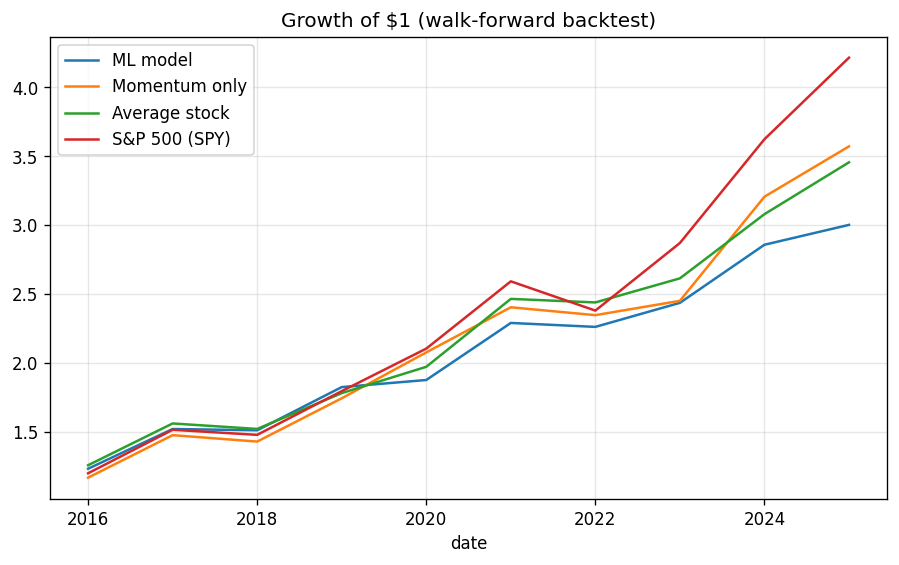
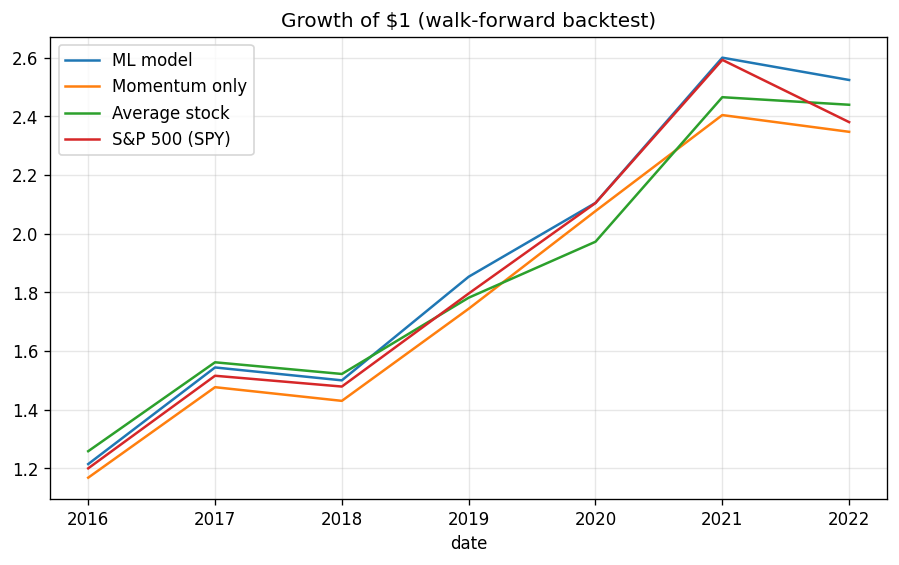
Use fundamentals only by default; price inputs can be switched back on

diff --git a/features.py b/features.py
@@ -69,4 +69,7 @@ def build_panel(monthly, members=None, fundamentals=None):
     panel.index.names = ["date", "ticker"]
     panel = panel.dropna(subset=list(FEATURE_BUILDERS))
     names = list(ranked)
+    if fundamentals is not None and not config.USE_PRICE_FEATURES:
+        # price features stay in the panel (the momentum benchmark uses them) but the model skips them
+        names = list(FUNDAMENTAL_BUILDERS)
     return panel, names

diff --git a/config.py b/config.py
@@ -21,6 +21,7 @@ MODEL_PARAMS = dict(
 )
 
 USE_FUNDAMENTALS = True        # add company financials from SEC filings to the model's inputs
+USE_PRICE_FEATURES = False     # also feed the model price patterns (momentum, volatility); they hurt in 2016-2022
 SEC_USER_AGENT = "stock-model bhrugu1203@icloud.com"   # the SEC asks scripts to include a contact email
 
 CACHE_DIR = "data"

diff --git a/README.md b/README.md
@@ -2,6 +2,8 @@
 
 A beginner-friendly, tweakable stock-picking project. It predicts which S&P 500 stocks are likely to beat the typical stock over the next 12 months, then honestly backtests that idea against the S&P 500.
 
+By default the model uses only company financials from SEC filings (value, profitability, growth, debt). Price patterns are switched off because they made 2016-2022 results worse; set `USE_PRICE_FEATURES = True` to compare.
+
 **Educational project, not financial advice.**
 
 ## Setup (one time, in Terminal)
@@ -52,7 +54,7 @@ https://bhrugu1203.github.io/stock-model/. Your Mac doesn't need to be on.
 
 | File | What it controls |
 |---|---|
-| `config.py` | stock universe (historical or today's list), dates, horizon, top-fraction, trading costs, model settings |
+| `config.py` | stock universe (historical or today's list), which inputs to use (`USE_FUNDAMENTALS`, `USE_PRICE_FEATURES`), dates, horizon, top-fraction, trading costs, model settings |
 | `features.py` | the inputs the model sees. Add a function plus one line in `FEATURE_BUILDERS` (prices) or `FUNDAMENTAL_BUILDERS` (financials) |
 | `fundamentals.py` | company financials from SEC filings, lined up by when they were published |
 | `backtest.py` | walk-forward training and the scorecard |
